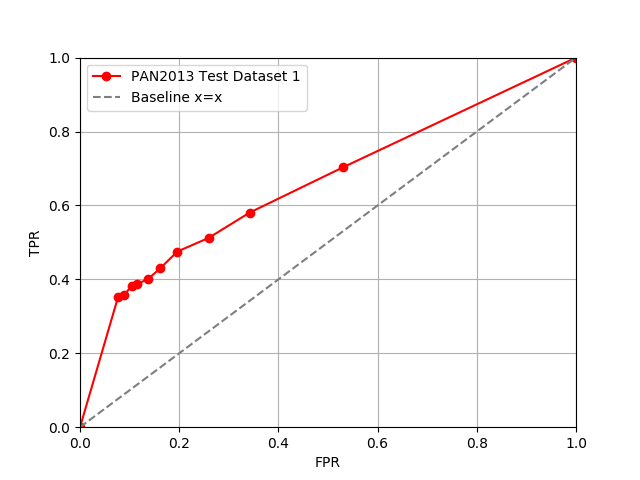
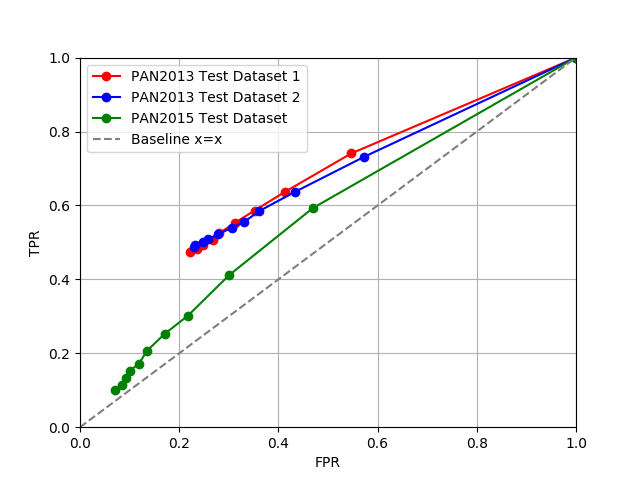
Add more results from Delta method

diff --git a/report/method.tex b/report/method.tex
@@ -4,23 +4,22 @@
 Feature extraction from a text is the process of finding a vector that
 represents the text. There are a lot of different features that can be extracted
 and we use several of them. Specifically we use some character level features,
-some word level features and som \gls{POS} tagging features. In this section
+some word level features and some \gls{POS} tagging features. In this section
 we will define the different features we use. The specific features used in
 different experiments will be described under those experiments.
 
 N-grams are subsequences extracted from a sequence of tokens. For example
-3-grams is all subsequences of length three of a given sequence. For example
-using individual characters as tokens all \textit{character 3-grams} of the
-string "hello" is "hel", "ell" and "llo". We use several different types of
-n-grams in different experiments including character n-grams, word n-grams,
-special character n-grams and \gls{POS} tagging n-grams. Word n-grams are
-subsequences of words, special character n-grams are subsequences of characters
-with alphanumeric characters removed, \gls{POS} tagging n-grams are subsequences
-of \gls{POS} tags. A special case of n-grams is 1-grams which is just a count of
+3-grams is all subsequences of length three of a given sequence. Using
+individual characters as tokens all \textit{character 3-grams} of the string
+"hello" is "hel", "ell" and "llo". We use several different types of n-grams
+in different experiments including character n-grams, word n-grams, special
+character n-grams and \gls{POS} tagging n-grams. Word n-grams are subsequences
+of words, special character n-grams are subsequences of characters with
+alphanumeric characters removed, \gls{POS} tagging n-grams are subsequences of
+\gls{POS} tags. A special case of n-grams is 1-grams which is just a count of
 the different tokens in a sequence. We will refer to 1-grams as frequencies.
 
-\subsection{Delta Method}
-\label{subsec: Delta Method}
+\subsection{Delta Method} \label{subsec: Delta Method}
 We have chosen to use the Delta method as a baseline method for our other
 implementations. The Delta method is described by \cite{evert2015towards} and
 consist of extracting word frequencies, applying a linear transformation to
@@ -511,18 +510,18 @@ configurations are shown in Figure \ref{fig:extended_delta_method_manhattan_resu
 \subsubsection{Author Specific SVM} \label{subsec:author_specific_svm_impl}
 In this approach we have experimented with a couple of different feature
 configurations. Configuration (A) consists of the 500 most frequent 3-, 4-
-and 5-character-grams, the 100 most frequent 3- an 4-word-grams, the 20
+and 5-character-grams, the 100 most frequent 3- and 4-word-grams, the 20
 most frequent 2-, 3- and 4-postag-grams. Configuration (B) consists of the
 frequencies of the 300 most frequent words. The most frequent n-grams is found
-in the brown text corpus. We run only on the PAN 2013 dataset since the PAN 2015
-dataset contains only a single known text per author and it would therefore not
-make sense to use this method. We use the \textit{sklearn} implementation of
-\gls{SVM}'s which internally use \textit{libsvm}.
+in the brown text corpus. We test only on the PAN 2013 dataset since the PAN
+2015 dataset contains only a single known text per author and an SVM cannot
+train with a single datapoint in each class. We use the \textit{sklearn}
+implementation of \gls{SVM}'s which internally use \textit{libsvm}.
 
 We use the RBF kernel and we choose hyperparameters via cross validation.
 Each configuration of features will use different hyperparameters. The cross
-validation is performed by looping through the list of authors. For each author
-we performing a grid search for value of $C \in \{10^{-2}, 10^{0}, \dots,
+validation is performed by looping through the list of authors. For each
+author we perform a grid search for value of $C \in \{10^{-2}, 10^{0}, \dots,
 10^{10}\}$ and $\gamma \in \{10^{-9}, 10^{-7}, \dots, 10^{3}\}$. The best values
 for each author are found via leave one out cross validation. The final $C$ and
 $\gamma$ values are chosen as the configurations used most often by the authors.
@@ -531,19 +530,7 @@ authors 100 times with those hyperparameters. The mean accuracy over the 100
 runs is then computed.
 
 Configuration (A) use the hyperparameters $C = 100$ and $\gamma = 0.00001$
-and obtained an average accuracy of 0.84599. Configuration (B) use the
-hyperparameters $C = 100$ and $\gamma = 0.001$ and obtained an average accuracy
-of 0.84799.
-
-% TODO: Add TPR and TNR using below data.
-% For configuration A)
-%     TP = 4.75
-%     TN = 3.17
-%     FP = 1.83
-%     FN = 0.25
-%
-% For configuration B)
-%     TP = 4.95
-%     TN = 3.16
-%     FP = 1.84
-%     FN = 5.0e-2
+and obtained an average accuracy of 0.84599 with a \gls{TPR} of 0.95 and a
+\gls{TNR} of 0.634. Configuration (B) use the hyperparameters $C = 100$ and
+$\gamma = 0.001$ and obtained an average accuracy of 0.84799 with a \gls{TPR}
+of 0.99899 and a \gls{TNR} of 0.632.

diff --git a/test/delta/delta.py b/test/delta/delta.py
@@ -1,0 +1,110 @@
+#!/usr/bin/python3
+
+import argparse
+import numpy as np
+from sklearn import neighbors
+
+# Parse command line arguments.
+parser = argparse.ArgumentParser(
+    description='Run delta method with smaller number of different authors')
+parser.add_argument(
+    'trainfile',
+    type=str,
+    help='Data file location')
+parser.add_argument(
+    'testfile',
+    type=str,
+    help='Data file location')
+parser.add_argument(
+    '--with-normalization',
+    help='Whether or not to normalize data.',
+    action='store_true',
+    default=False)
+parser.add_argument(
+    '--opposing-set-size',
+    help='Number of opposing authors to use',
+    type=int,
+    default=5)
+parser.add_argument(
+    '--metric',
+    help='Which Minkowski metric to use given 1 it will be the Manhattan ' +
+    'distance and 2 it is the Euclidean distance',
+    type=int,
+    default=1)
+parser.add_argument(
+    '--with-PN',
+    help='Whether or not to also print True Positive, False Positive, True ' +
+    'Negative and False Negative.',
+    action='store_true',
+    default=False)
+args = parser.parse_args()
+
+# Import data ([features...], truth, author).
+traindata = np.loadtxt(args.trainfile, dtype=np.float)[:, 0:-2]
+testdata = np.loadtxt(args.testfile, dtype=np.float)
+y = testdata[:, -2].astype(np.bool)
+
+feature_n = testdata.shape[1] - 2
+feature_n_half = int(feature_n / 2)
+
+X_known = testdata[:, 0:feature_n_half]
+X_unknown = testdata[:, feature_n_half:-2]
+
+traindata = np.vstack([traindata[:, 0:feature_n_half],
+                       traindata[:, feature_n_half:]])
+
+# Normalize the data.
+if args.with_normalization:
+    mean = np.mean(traindata, axis=0)
+    std_var = np.std(traindata, axis=0)
+
+    std_var[std_var == 0] = 1
+
+    traindata = (traindata - mean) / std_var
+    X_known = (X_known - mean) / std_var
+    X_unknown = (X_unknown - mean) / std_var
+
+# For each problem choose args.opposing_set_size number of different authors to
+# test aginst.
+problem_number = X_known.shape[0]
+predictions = []
+true_positives = 0
+true_negatives = 0
+false_positives = 0
+false_negatives = 0
+for i in range(0, problem_number):
+    opposing = np.random.uniform(0, traindata.shape[0],
+                                 args.opposing_set_size).astype(np.int)
+
+    opposing_texts = traindata[opposing]
+    opposing_classes = np.array([False] * args.opposing_set_size)
+
+    knntrain = np.vstack([opposing_texts, X_known[i]])
+    knnclass = np.hstack([opposing_classes, np.array(True)])
+
+    model = neighbors.KNeighborsClassifier(
+        n_neighbors=1, weights='uniform', algorithm='auto',
+        metric='minkowski', p=args.metric)
+    model.fit(knntrain, knnclass)
+
+    prediction = model.predict(X_unknown[i].reshape(1, -1))[0]
+
+    if prediction == y[i] and y[i]:
+        true_positives += 1
+    elif prediction == y[i] and not y[i]:
+        true_negatives += 1
+    elif prediction != y[i] and y[i]:
+        false_negatives += 1
+    else:
+        false_positives += 1
+
+    predictions.append(prediction)
+
+predictions = np.array(predictions)
+results = predictions == y
+
+if args.with_PN:
+    print(np.sum(results) / X_known.shape[0], true_positives,
+          true_negatives, false_positives, false_negatives)
+else:
+    print(np.sum(results) / X_known.shape[0])

diff --git a/report/graph_generation/delta_method_roc.py b/report/graph_generation/delta_method_roc.py
@@ -1,0 +1,56 @@
+#!/usr/bin/python3
+
+import matplotlib.pyplot as plt
+import numpy as np
+
+# 13 1.
+tprs13_1 = np.array([
+    1.0, 0.74075, 0.63725, 0.5862499999999999, 0.55325, 0.52425, 0.50725,
+    0.49375, 0.489, 0.48125, 0.47525000000000006])
+fprs13_1 = np.array([
+    1.0, 0.5469387755102041, 0.4138775510204082, 0.3520408163265306,
+    0.31244897959183676, 0.2802040816326531, 0.267346938775510,
+    0.24877551020408162, 0.2373469387755102, 0.23489795918367345,
+    0.22204081632653064])
+
+p = fprs13_1.argsort()
+fprs13_1 = fprs13_1[p]
+tprs13_1 = tprs13_1[p]
+
+# 13 2.
+tprs13_2 = np.array([
+    1.0, 0.7314285714285714, 0.636984126984127, 0.5838095238095238,
+    0.554126984126984, 0.5398412698412698, 0.5217460317460317,
+    0.5079365079365079, 0.5011111111111111, 0.4938095238095238,
+    0.48634920634920636])
+fprs13_2 = np.array([
+    1.0, 0.57265625, 0.43375, 0.36, 0.3296875, 0.30609375, 0.278125,
+    0.25796875, 0.24890625, 0.23171875, 0.229375])
+
+p = fprs13_2.argsort()
+fprs13_2 = fprs13_2[p]
+tprs13_2 = tprs13_2[p]
+
+# 15.
+tprs15 = np.array([
+    1.0, 0.5928, 0.4118, 0.3012, 0.2522, 0.2064, 0.17059999999999997, 0.1528,
+    0.1336, 0.11359999999999999, 0.1])
+fprs15 = np.array([
+    1.0, 0.4694, 0.301, 0.21719999999999998, 0.1704, 0.1348, 0.1182, 9.98e-2,
+    9.359999999999999e-2, 8.380000000000001e-2, 7.0e-2])
+
+p = fprs15.argsort()
+fprs15 = fprs15[p]
+tprs15 = tprs15[p]
+
+plt.plot(fprs13_1, tprs13_1, marker='o', c='r', label='PAN2013 Test Dataset 1')
+plt.plot(fprs13_2, tprs13_2, marker='o', c='b', label='PAN2013 Test Dataset 2')
+plt.plot(fprs15, tprs15, marker='o', c='g', label='PAN2015 Test Dataset')
+plt.plot([0.0, 1.0], linestyle='--', c='tab:gray', label='Baseline x=x')
+plt.grid(True)
+plt.ylim(0.0, 1.0)
+plt.xlim(0.0, 1.0)
+plt.xlabel('FPR')
+plt.ylabel('TPR')
+plt.legend()
+plt.savefig('../pictures/delta_method_roc.png')

diff --git a/report/introduction.tex b/report/introduction.tex
@@ -18,8 +18,14 @@ In this article we explore state of the art methods for authorship verification.
 We extract several different types of features including word frequencies, word
 n-grams and pos-tagging n-grams. We implement several different algorithms to
 work on the features. We start by implementing a baseline method which is a
-\gls{KNN} with one nearest neighbour where an unknown text is considered to be
-written by the closest author. We then use the baseline method to compare to
-our other results. We mainly use data from \cite{pan:2015} which is a yearly
-competition in digital text forensics. Since we use PAN data we also compare our
-results to the results obtained by others in the competition.
+distance based approach where an unknown text is considered to be written by
+the closest author. We then use the baseline method to compare to our other
+results. We use data from two sources \cite{pan:2015} and \cite{pan:2013} which
+are two instances of a yearly competition in digital text forensics. Since we
+use PAN data we also compare our results to the results obtained by others in
+the competition.
+
+% TODO: Continue.
+%The PAN2013 and PAN2015 datasets are very different. The PAN2013 dataset
+%contains many texts from a few authors while the PAN2015 texts contains a single
+%text from many authors.

diff --git a/report/results.tex b/report/results.tex
@@ -1,26 +1,53 @@
 \section{Results}
 
+% TODO: Formatting.
 \subsection{Delta Method}
+Accuracy from 0 opponents to 10 opponents on PAN2013 dataset 1.
+0.44943
+0.58235
+0.60910
+0.62022
+0.62719
+0.63191
+0.63134
+0.63550
+0.63966
+0.63752
+0.64191
 
-Accuracy from 0 author to 10 on PAN2013 dataset 1.
+Accuracy from 0 opponents to 10 opponents on PAN2013 dataset 2.
+0.49606
+0.57818
+0.60133
+0.61212
+0.61267
+0.61748
+0.62259
+0.62590
+0.62708
+0.63212
+0.62960
 
-0, 0.44943
-1, 0.57471
-2, 0.62325
-3, 0.63797
-4, 0.65606
-5, 0.65471
-6, 0.65516
-7, 0.66146
-8, 0.66516
-9, 0.66247
-10, 0.66685
+
+Accuracy from 0 opponents to 10 opponents on PAN2015 dataset.
+0.50000
+0.56170
+0.55540
+0.54199
+0.54089
+0.53580
+0.52620
+0.52650
+0.52000
+0.51490
+0.51500
 
 \begin{figure}
     \centering
     \includegraphics[width=.7\textwidth]{./pictures/delta_method_roc.png}
     \caption{The ROC curve of the delta method with number of opposing authors
-    varying from 0 to 10 using the two test datasets for PAN2013.}
+    varying from 0 to 10 using the two test datasets for PAN2013 and the test
+    dataset for PAN2015.}
     \label{fig:delta_method_roc}
 \end{figure}
 
